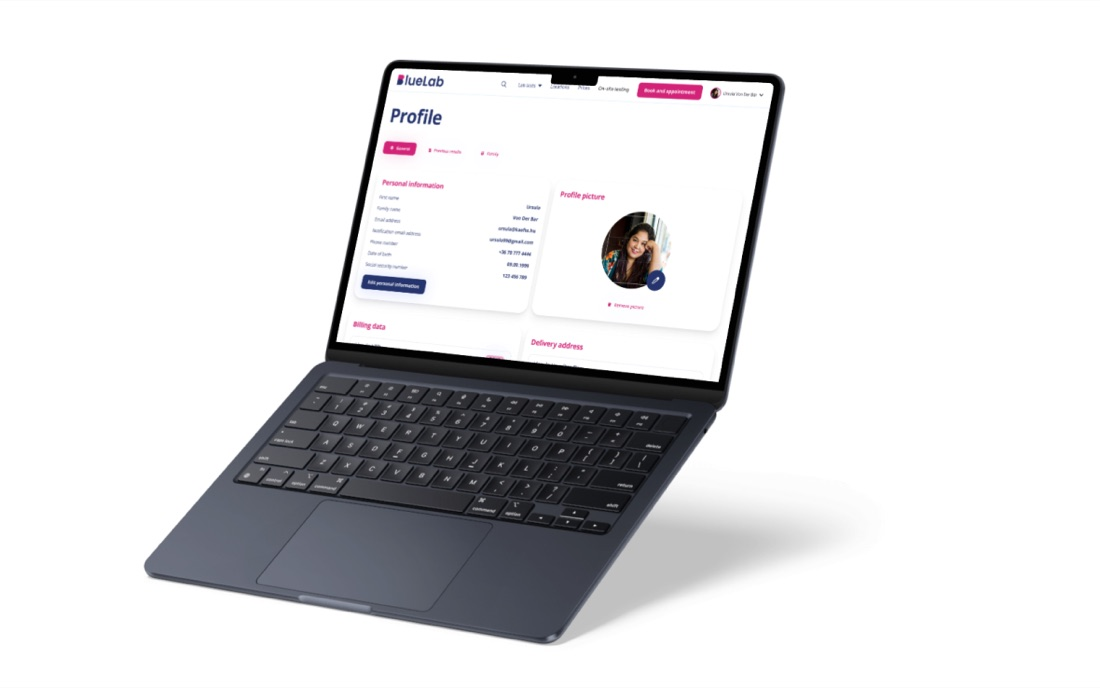
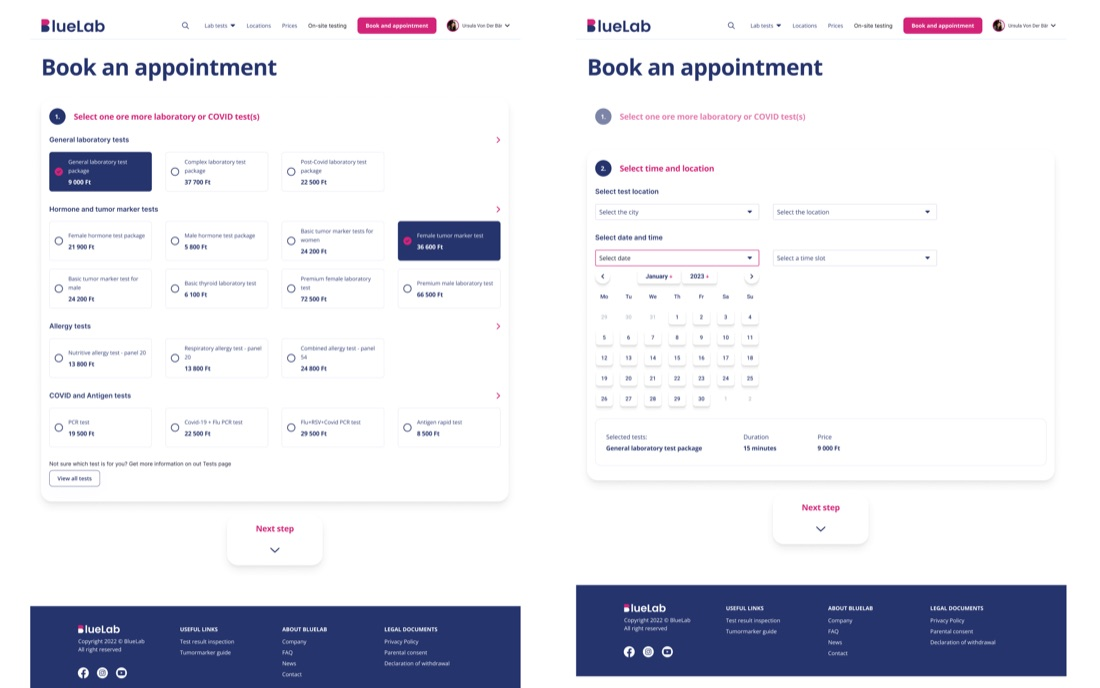
Use a flat booking screen on the BlueLab card
The angled laptop mockup lost almost all its detail at card size, where
the image renders about 450px wide. Two steps of the actual booking
flow — choosing tests, then location and time — read at that size and
match how the CompanyHub card shows real product screens.

diff --git a/src/data/otherWork.js b/src/data/otherWork.js
@@ -37,7 +37,7 @@ export const otherWork = [
     facts: ['2021 — 2022', 'Bounce rate down 15–20%', 'Bookings up as demand fell'],
     image: {
       src: bluelabImage,
-      alt: 'The BlueLab profile page shown on a laptop',
+      alt: 'Two steps of the BlueLab booking flow: choosing lab tests, then picking a location, date and time',
     },
     link: null,
   },
